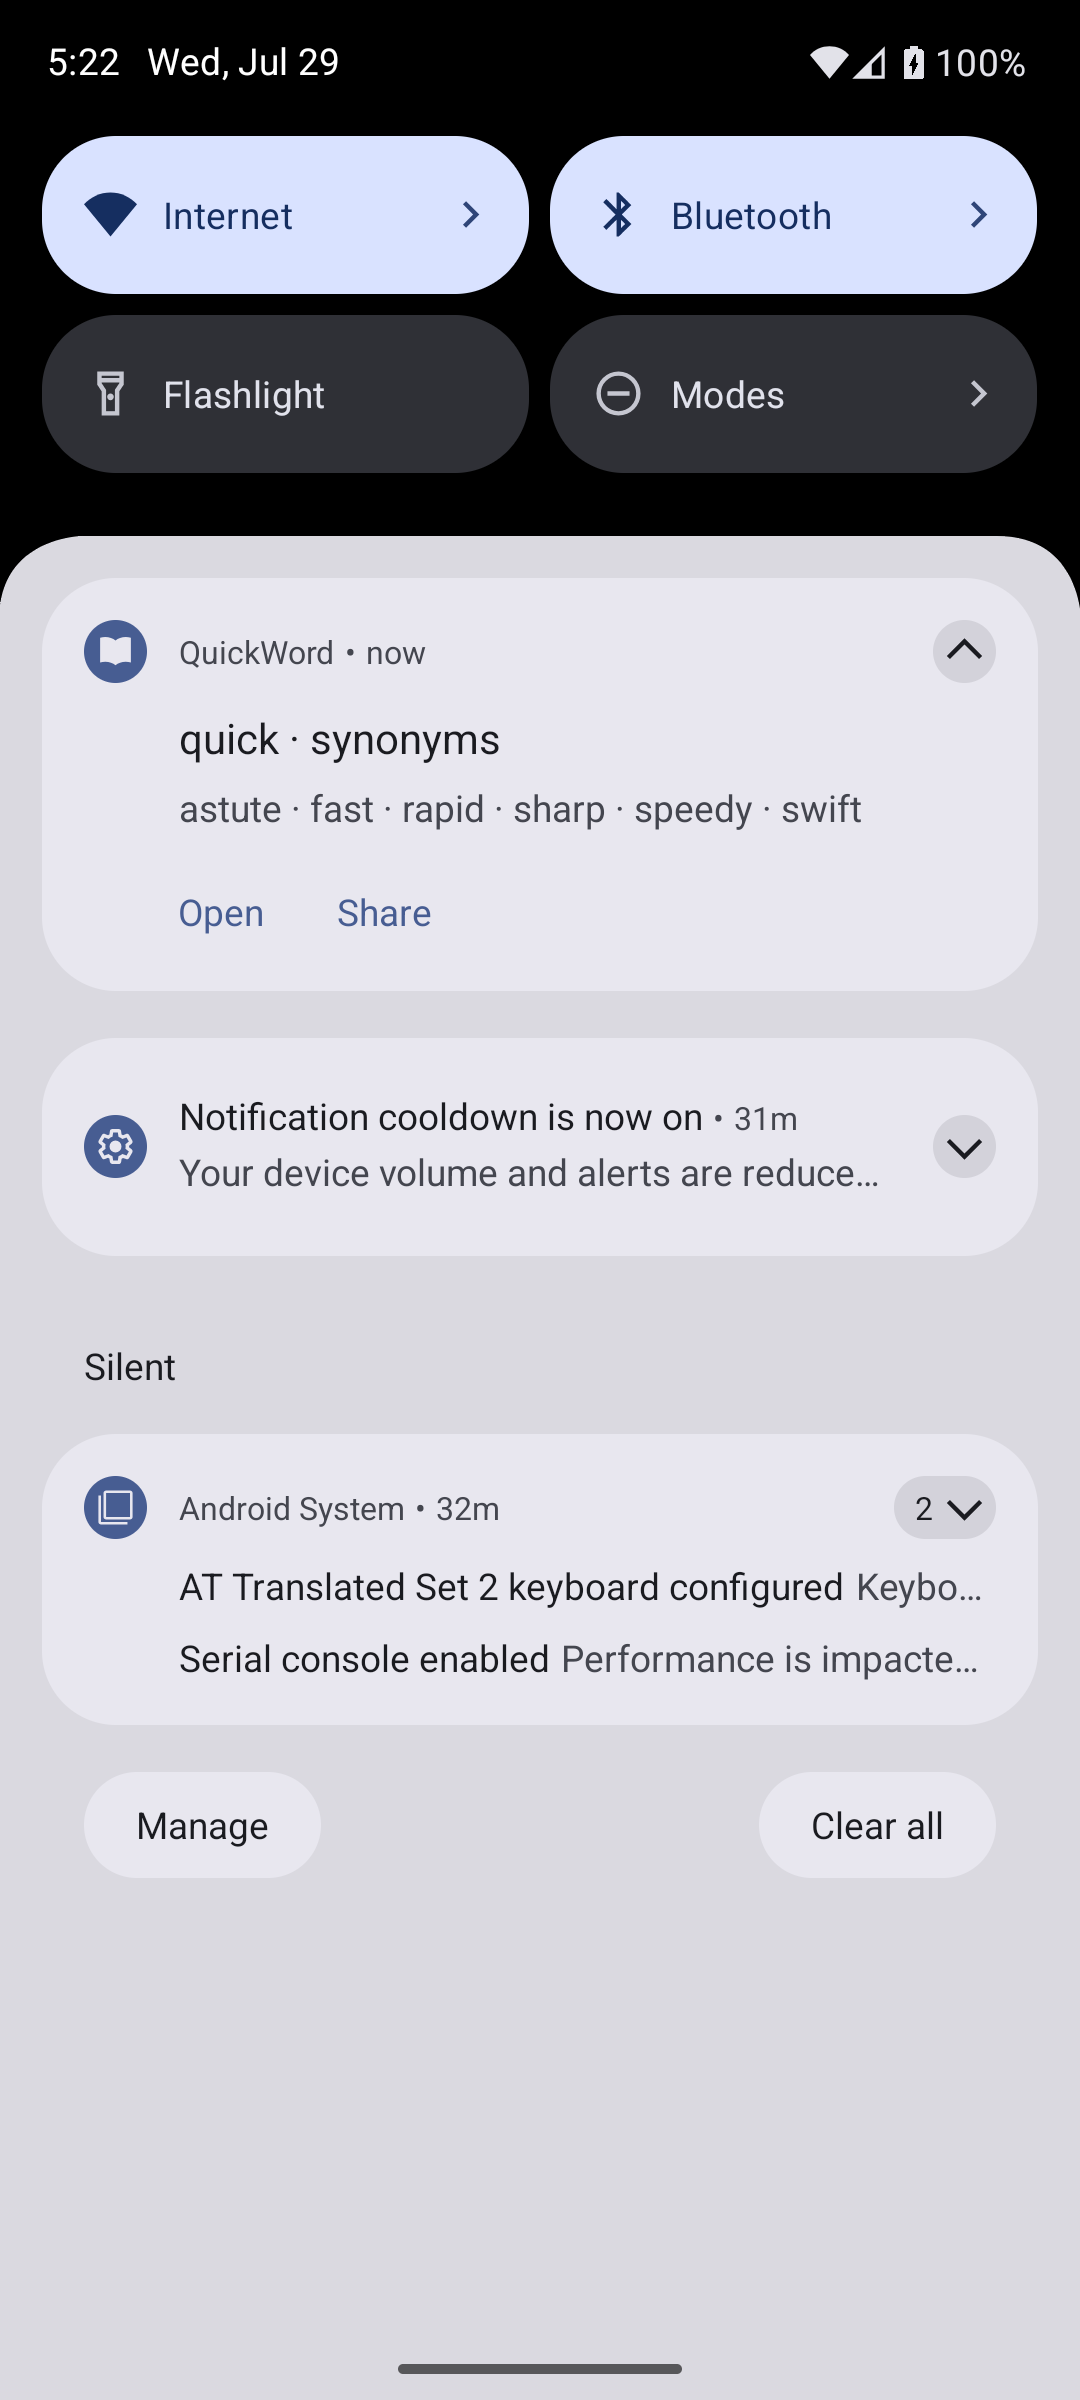
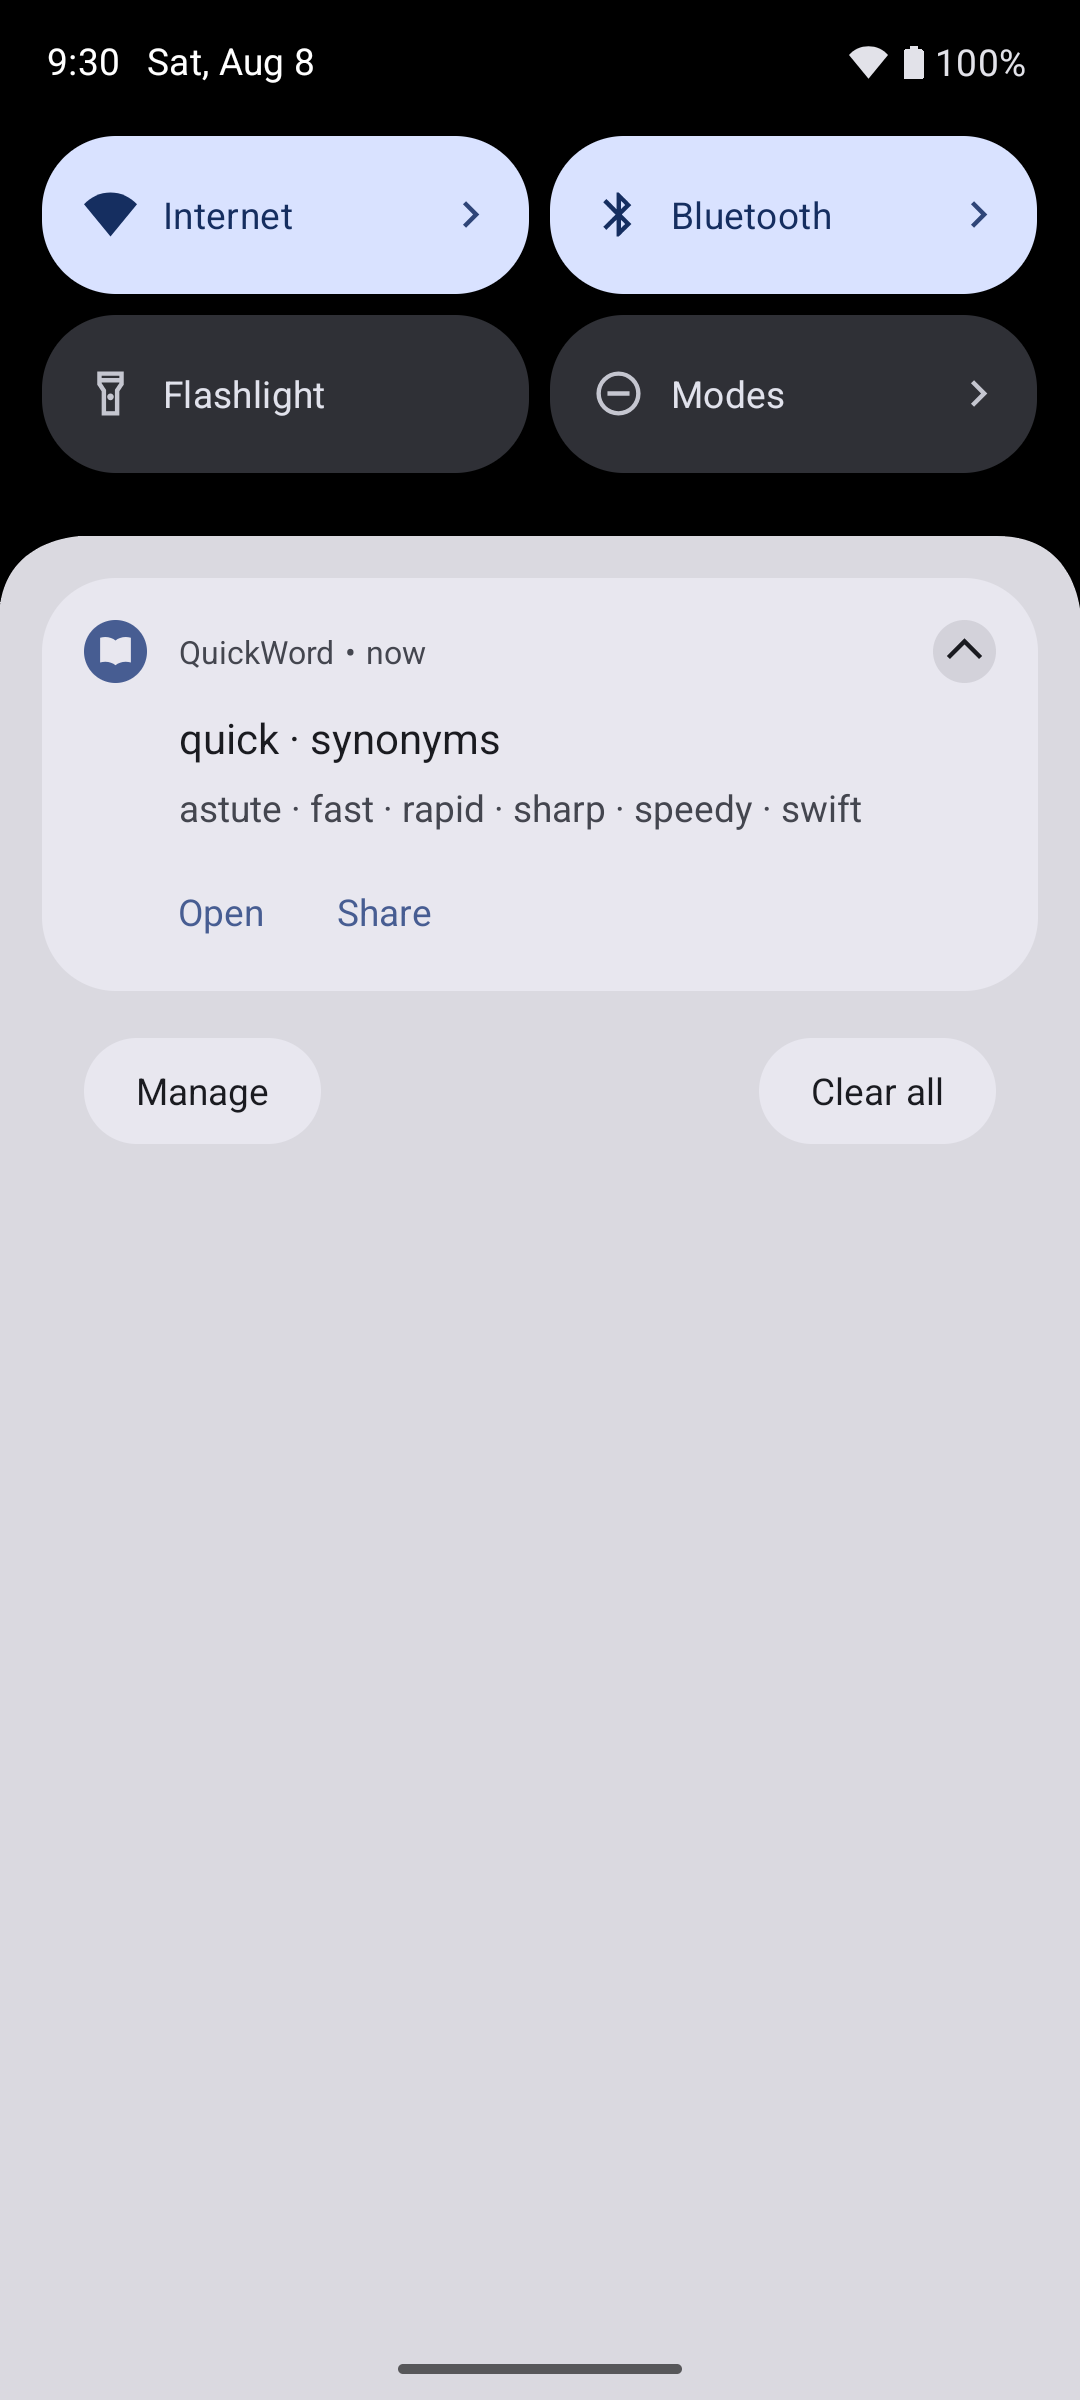
fix: re-record the shade screenshots without Android's cooldown card
The lead store screenshot was dominated by an Android System 'Notification
cooldown is now on' card, and the expanded one contained no QuickWord
notification at all — both also carried the emulator's 'Serial console
enabled' junk. Re-recorded on a clean emulator with cooldown off and SystemUI
demo mode on, and wrote the recipe down in RELEASING.md.

diff --git a/RELEASING.md b/RELEASING.md
@@ -64,6 +64,29 @@ The listing text and images come straight out of `fastlane/metadata/android/en-U
 | Phone screenshots (≥2) | `images/phoneScreenshots/*.png` |
 | Privacy policy URL | `https://github.com/jtrv/quickword/blob/main/PRIVACY.md` |
 
+**Re-recording the three device screenshots.** `mise run shots` covers the
+in-app ones; the shade shots (`app/shots/device_*.png`) are captured by hand and
+are easy to get wrong — the first set shipped with Android's "Notification
+cooldown is now on" card sitting above the app, and the expanded one had no
+QuickWord notification in it at all. On a freshly booted emulator:
+
+```sh
+adb shell settings put system notification_cooldown_enabled 0   # or it posts its own card
+adb shell settings put global sysui_demo_allowed 1              # clean status bar
+adb shell am broadcast -a com.android.systemui.demo -e command enter
+adb shell am broadcast -a com.android.systemui.demo -e command clock -e hhmm 0930
+adb shell am broadcast -a com.android.systemui.demo -e command battery -e level 100 -e plugged false
+adb shell am broadcast -a com.android.systemui.demo -e command network -e wifi show -e level 4 -e fully true
+adb shell am broadcast -a com.android.systemui.demo -e command network -e mobile hide
+```
+
+Swipe away any leftover system notifications first — the emulator posts "Serial
+console enabled" on every boot. Then trigger, open the shade and capture in one
+scripted run: `LookupNotifier` sets `setTimeoutAfter(30_000)`, so a shot taken
+more than 30 s after the lookup catches an empty shade. `petrichor` and `quick`
+both live in the bundled starter dictionary, so this needs no 280 MB download.
+Drop `-e fully true` and the Wi-Fi icon renders with a "no internet" `!`.
+
 **Data safety form.** No accounts, no ads, no analytics, no crash reporting, and
 nothing is persisted off-device — so *Data collected: none* and *Data shared:
 none* is the honest answer. One nuance worth deciding deliberately rather than
